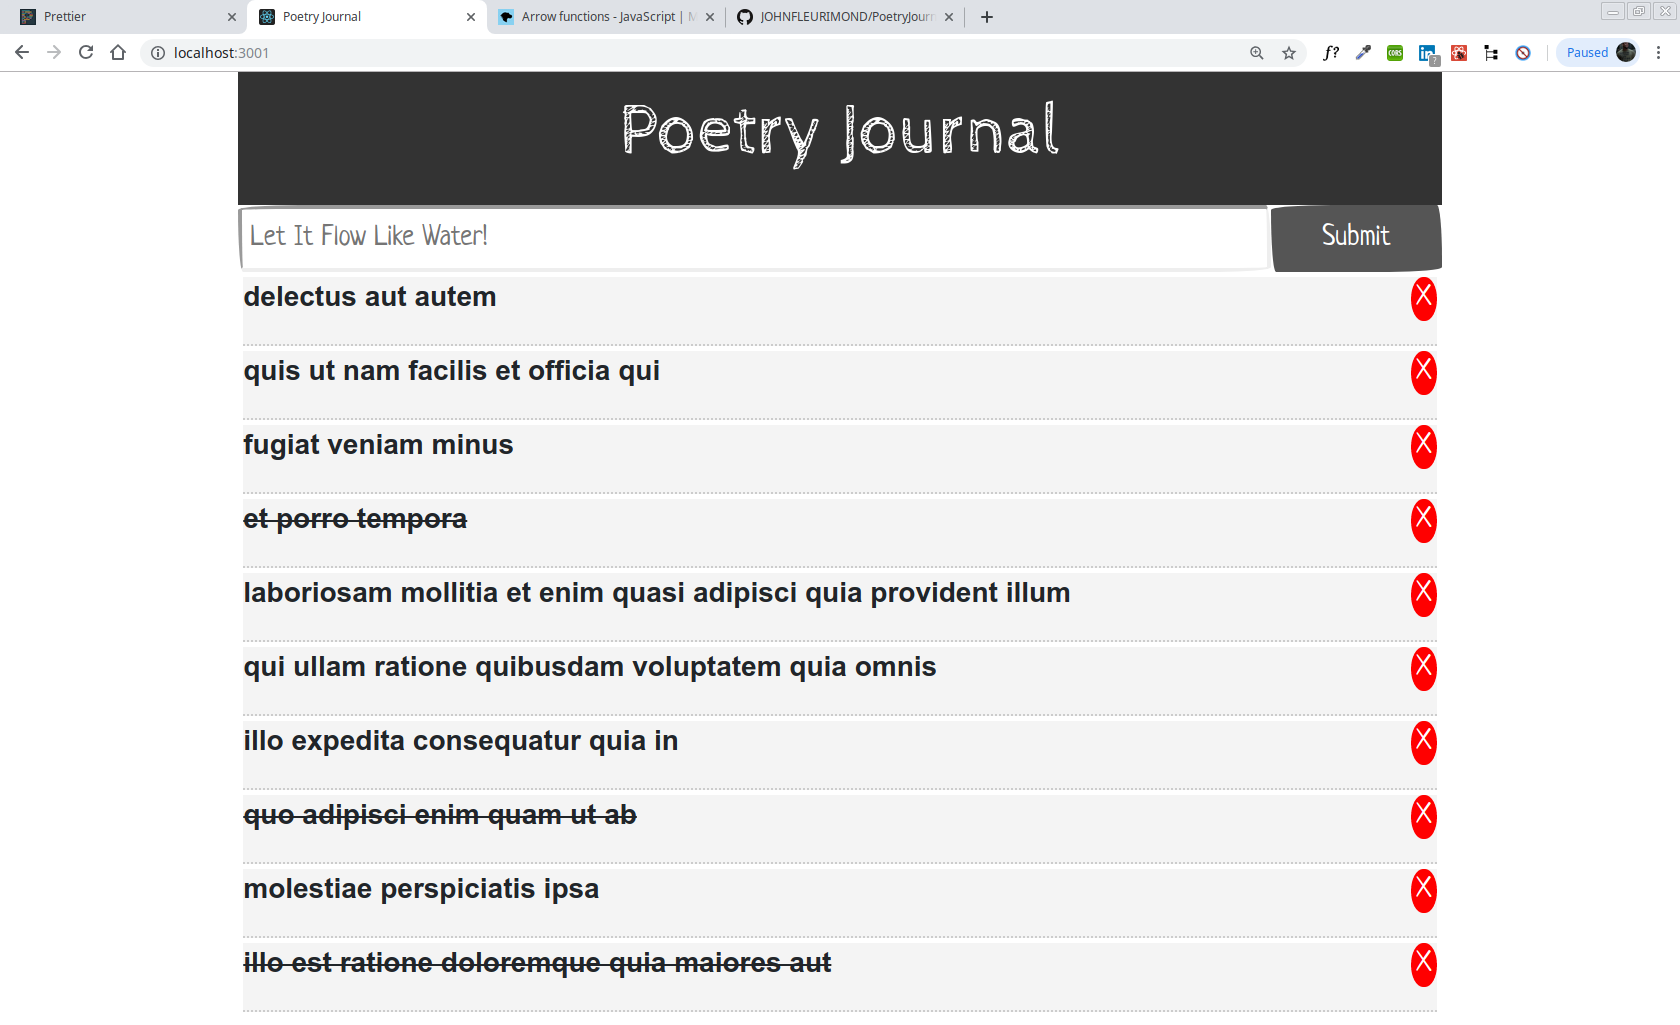
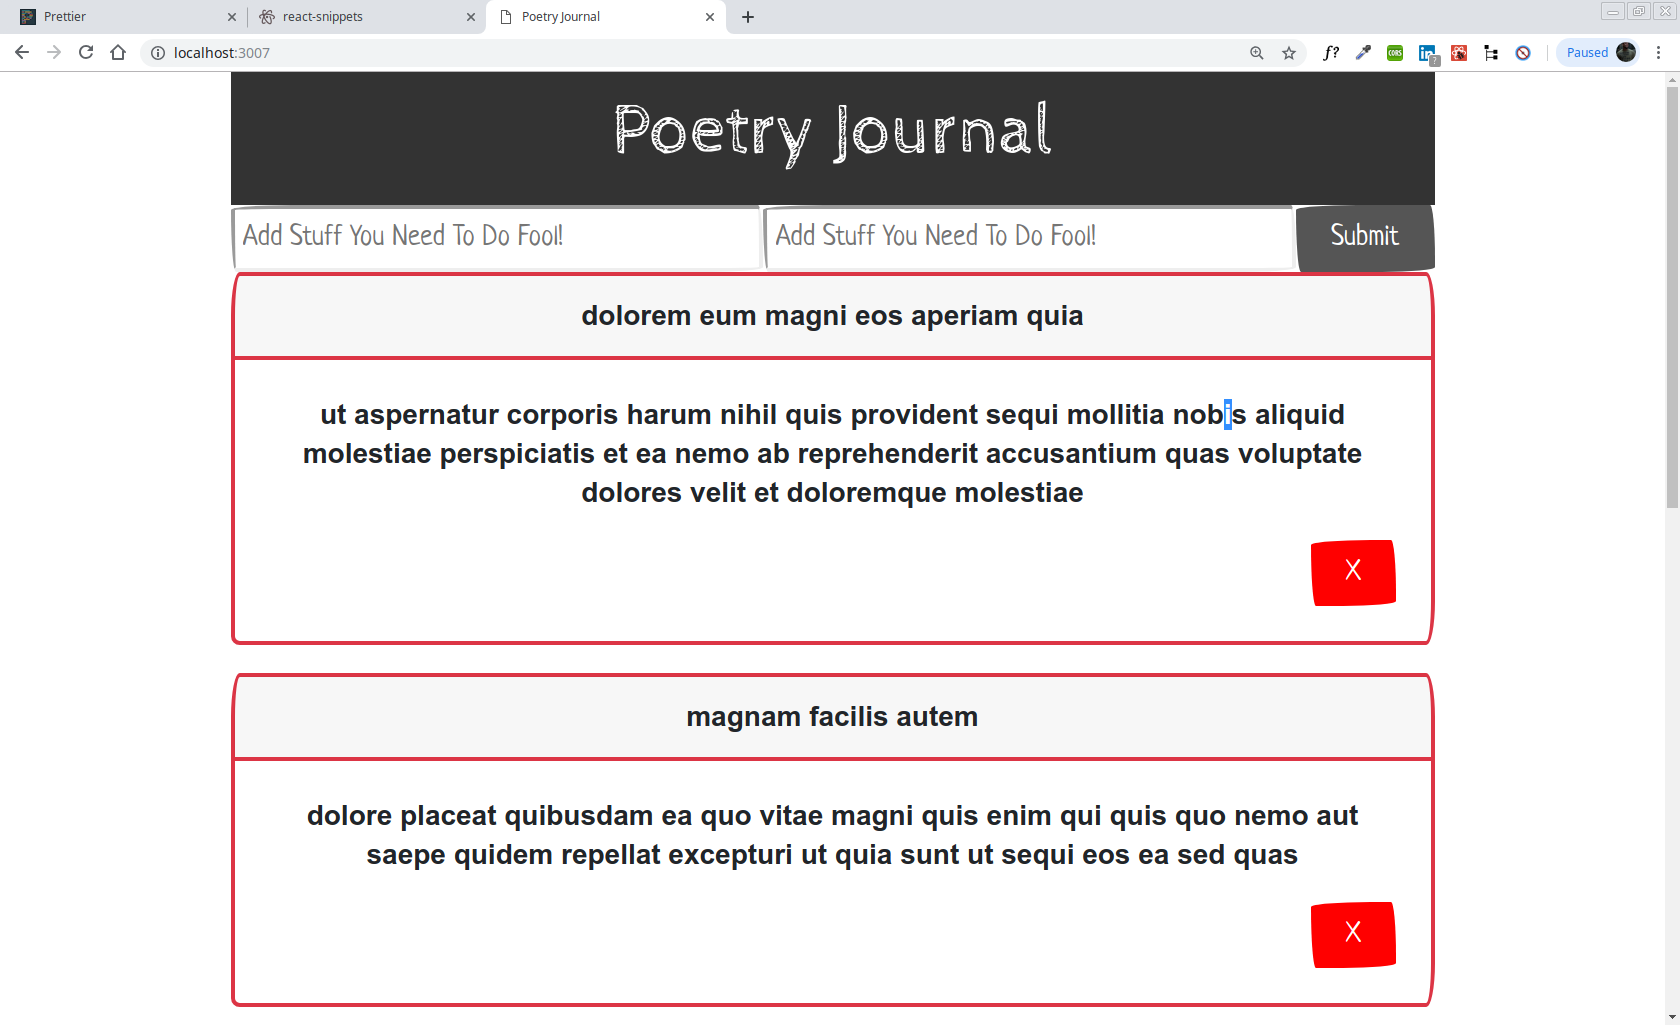
First Commit for Redux, React Template Implementation

diff --git a/public/example/Posts.js b/public/example/Posts.js
@@ -1,0 +1,64 @@
+import React, { Component } from 'react';
+import axios from 'axios';
+
+class Posts extends Component {
+  constructor(props) {
+    super(props);
+    this.state = {
+      posts: [],
+    };
+  }
+
+  componentDidMount() {
+    axios.get('https://jsonplaceholder.typicode.com/posts').then(res =>
+      this.setState({
+        posts: res.data,
+      })
+    );
+  }
+
+  // Delete posts
+  deleteposts = id => {
+    axios.delete(`https://jsonplaceholder.typicode.com/posts/${id}`).then(res =>
+      this.setState({
+        posts: [...this.state.posts.filter(posts => posts.id !== id)],
+      })
+    );
+  };
+
+  // Add posts
+  Addposts = title => {
+    axios
+      .post('https://jsonplaceholder.typicode.com/posts?', {
+        title,
+      })
+      .then(res =>
+        this.setState({
+          posts: [...this.state.posts, res.data],
+        })
+      );
+  };
+
+  render() {
+    const postItems = this.state.posts.map(post => (
+      <div key={posts.id}>
+        <h4>{posts.title}</h4>
+        <p>{posts.body}</p>
+      </div>
+    ));
+    return (
+      <div
+        className="card border-danger mb-3 auto"
+        style={{ maxWidth: '10rem;' }}
+      >
+        <div className="card-header text-center">Posts</div>
+        <div className="card-body">
+          <h4 className="card-title text-center">Danger card title</h4>
+          <p className="card-text text-center">{postItems}</p>
+        </div>
+      </div>
+    );
+  }
+}
+
+export default Posts;

diff --git a/src/components/TodoItem.js b/src/components/TodoItem.js
@@ -2,30 +2,20 @@ import React, { Component } from 'react';
 import PropTypes from 'prop-types';
 
 class TodoItem extends Component {
-  getStyle = ()=> {
-    return {
-      borderBottom: '1px #ccc dotted',
-      padding: '10 px ',
-      margin: '3px',
-      background: '#f4f4f4',
-      textDecoration: this.props.todo.completed ? 'line-through' : 'none',
-    };
-  };
 
   render() {
-    const { id, title } = this.props.todo;
+    const { id, title, body } = this.props.posts;
 
     return (
-      <div style={this.getStyle()}>
-        <p>
-     {title}{' '}
-          <button
-            style={btnStyle}
-            onClick={this.props.deleteTodo.bind(this, id)}
-          >
-            X{' '}
-          </button>{' '}
-        </p>{' '}
+      <div
+        className='card border-danger mb-3 auto'
+        style={{ maxWidth: '10rem;' }}
+      >
+        <div className='card-header text-center'>{title}</div>
+        <div className='card-body'>
+          <p className='card-text text-center'>{body}</p>
+          <button type='button' style={btnStyle} onClick={this.props.deleteTodo.bind(this, id)} className='btn btn-outline-danger'>X</button>{' '}
+        </div>
       </div>
     );
   }
@@ -39,10 +29,6 @@ TodoItem.PropTypes = {
 const btnStyle = {
   background: '#ff0000',
   color: '#fff',
-  border: 'none',
-  padding: '1.5px 3px',
-  borderRadius: '50%',
-  cursor: 'pointer',
   float: 'right',
 };
 

diff --git a/src/App.js b/src/App.js
@@ -8,30 +8,31 @@ import './App.css';
 
 class App extends Component {
   state = {
-    todos: [],
+    posts: [],
   };
 
   componentDidMount() {
     axios
-      .get('https://jsonplaceholder.typicode.com/todos?_limit=10')
+      .get('https://jsonplaceholder.typicode.com/posts?_limit=10')
       .then(res =>
         this.setState({
-          todos: res.data,
+          posts: res.data,
         })
       );
   }
+
 
   // Delete Todo
   deleteTodo = id => {
     axios.delete(`https://jsonplaceholder.typicode.com/todos/${id}`).then(res =>
       this.setState({
-        todos: [...this.state.todos.filter(todo => todo.id !== id)],
+        posts: [...this.state.posts.filter(posts => posts.id !== id)],
       })
     );
   };
 
   // Add Todo
-  Addtodo = title => {
+  Addtodo = (title, body) => {
     axios
       .post('https://jsonplaceholder.typicode.com/todos?', {
         title,
@@ -39,7 +40,7 @@ class App extends Component {
       })
       .then(res =>
         this.setState({
-          todos: [...this.state.todos, res.data],
+          posts: [...this.state.posts, res.data],
         })
       );
   };
@@ -51,7 +52,7 @@ class App extends Component {
           <Header />
           <Addtodo Addtodo={this.Addtodo} />{' '}
           <Todo
-            todos={this.state.todos}
+            posts={this.state.posts}
             deleteTodo={this.deleteTodo}
           />{' '}
         </div>{' '}

diff --git a/public/example/PostFlow.js b/public/example/PostFlow.js
@@ -1,13 +1,13 @@
 import React, { Component } from 'react';
 
-class Addtodo extends Component {
+class PostFlow extends Component {
   state = {
-    title: '',
+    posts: [],
   };
 
   onSubmit = e => {
     e.preventDefault();
-    this.props.Addtodo(this.state.title);
+    this.props.Addposts(this.state.title);
     this.setState({
       title: '',
     });
@@ -31,23 +31,25 @@ class Addtodo extends Component {
           name='title'
           onChange={this.onChange}
           value={this.state.title}
-          placeholder='Add Stuff You Need To Do Fool!'
+          placeholder='Name it!'
           style={{
             flex: '10',
             padding: '5px',
           }}
         />
-        <input
+
+        <textarea
           type='text'
           name='body'
           onChange={this.onChange}
           value={this.state.body}
-          placeholder='Add Stuff You Need To Do Fool!'
+          placeholder='Let It Flow Like Water!'
           style={{
             flex: '10',
             padding: '5px',
           }}
         />
+
         <input
           type='Submit'
           name='Submit'
@@ -62,4 +64,4 @@ class Addtodo extends Component {
   }
 }
 
-export default Addtodo;
+export default PostFlow;

diff --git a/src/index.js b/src/index.js
@@ -2,7 +2,7 @@ import React from 'react';
 import ReactDOM from 'react-dom';
 import App from './App';
 
-ReactDOM.render( < App / > , document.getElementById('root'));
+ReactDOM.render(<App / >, document.getElementById('root'));
 
 // If you want your app to work offline and load faster, you can change
 // unregister() to register() below. Note this comes with some pitfalls.

diff --git a/src/components/Todo.js b/src/components/Todo.js
@@ -6,11 +6,11 @@ import PropTypes from 'prop-types';
 
 class Todo extends Component {
   render() {
-    return this.props.todos.map(todo => (
+    return this.props.posts.map(posts => (
       <TodoItem
-        key={todo.id}
+        key={posts.id}
         deleteTodo={this.props.deleteTodo}
-        todo={todo}
+        posts={posts}
       />
     ));
   }
